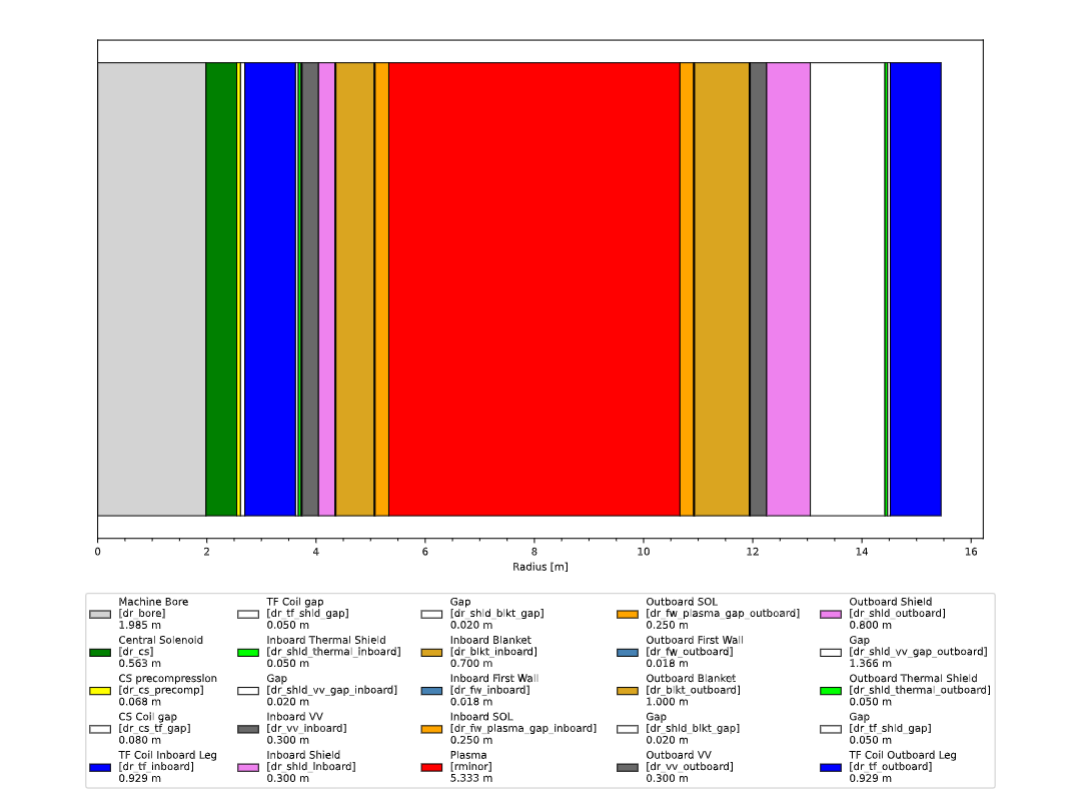
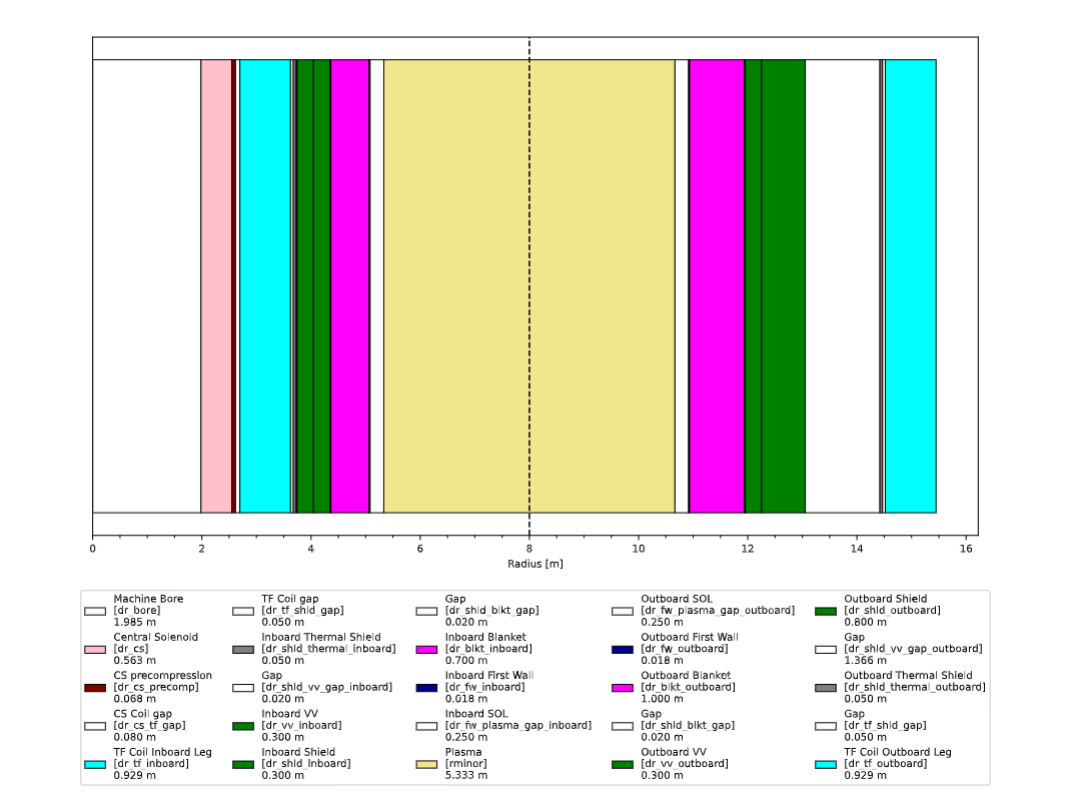
:memo: Update plotting functions and documentation for new vertical build representation

diff --git a/process/io/plot_proc.py b/process/io/plot_proc.py
@@ -4625,7 +4625,7 @@ def plot_confinement_time_comparison(
     axis.set_facecolor("#f0f0f0")
 
 
-def plot_radial_build(axis: plt.Axes, mfile_data: mf.MFile) -> None:
+def plot_radial_build(axis: plt.Axes, mfile_data: mf.MFile, colour_scheme) -> None:
     """
     Plots the radial build of a fusion device on the given matplotlib axis.
 
@@ -4735,58 +4735,52 @@ def plot_radial_build(axis: plt.Axes, mfile_data: mf.MFile) -> None:
         radial_labels[5] = "TF Coil gap"
 
     radial_color = [
-        "lightgrey",
-        "green",
-        "yellow",
         "white",
-        "blue",
+        SOLENOID_COLOUR[colour_scheme - 1],
+        CSCOMPRESSION_COLOUR[colour_scheme - 1],
         "white",
-        "lime",
+        TFC_COLOUR[colour_scheme - 1],
         "white",
-        "dimgrey",
-        "violet",
+        THERMAL_SHIELD_COLOUR[colour_scheme - 1],
         "white",
-        "goldenrod",
-        "steelblue",
-        "orange",
-        "red",
-        "orange",
-        "steelblue",
-        "goldenrod",
+        VESSEL_COLOUR[colour_scheme - 1],
+        SHIELD_COLOUR[colour_scheme - 1],
         "white",
-        "dimgrey",
-        "violet",
+        BLANKET_COLOUR[colour_scheme - 1],
+        FIRSTWALL_COLOUR[colour_scheme - 1],
         "white",
-        "lime",
+        PLASMA_COLOUR[colour_scheme - 1],
         "white",
-        "blue",
+        FIRSTWALL_COLOUR[colour_scheme - 1],
+        BLANKET_COLOUR[colour_scheme - 1],
+        "white",
+        VESSEL_COLOUR[colour_scheme - 1],
+        SHIELD_COLOUR[colour_scheme - 1],
+        "white",
+        THERMAL_SHIELD_COLOUR[colour_scheme - 1],
+        "white",
+        TFC_COLOUR[colour_scheme - 1],
     ]
     if int(mfile_data.data["i_tf_inside_cs"].get_scan(-1)) == 1:
-        radial_color[1] = "blue"
+        radial_color[1] = TFC_COLOUR[colour_scheme - 1]
         radial_color[2] = "white"
-        radial_color[3] = "green"
-        radial_color[4] = "yellow"
+        radial_color[3] = SOLENOID_COLOUR[colour_scheme - 1]
+        radial_color[4] = CSCOMPRESSION_COLOUR[colour_scheme - 1]
         radial_color[5] = "white"
 
-    # Remove build parts equal to zero
-    mask = ~(radial_build[:, 0] == 0.0)
-    filtered_radial_build = radial_build[mask]
-    filtered_labels = [lbl for i, lbl in enumerate(radial_labels) if mask[i]]
-    filtered_colors = [col for i, col in enumerate(radial_color) if mask[i]]
-
-    lower = np.zeros(filtered_radial_build.shape[1])
-    for kk in range(filtered_radial_build.shape[0]):
+    lower = np.zeros(radial_build.shape[1])
+    for kk in range(radial_build.shape[0]):
         axis.barh(
             0,
-            filtered_radial_build[kk, :],
+            radial_build[kk, :],
             left=lower,
             height=0.8,
-            label=f"{filtered_labels[kk]}\n[{radial_variables[kk]}]\n{filtered_radial_build[kk][0]:.3f} m",
-            color=filtered_colors[kk],
+            label=f"{radial_labels[kk]}\n[{radial_variables[kk]}]\n{radial_build[kk][0]:.3f} m",
+            color=radial_color[kk],
             edgecolor="black",
             linewidth=0.05,
         )
-        lower += filtered_radial_build[kk, :]
+        lower += radial_build[kk, :]
 
     axis.set_yticks([])
 
@@ -4794,6 +4788,14 @@ def plot_radial_build(axis: plt.Axes, mfile_data: mf.MFile) -> None:
         bbox_to_anchor=(0.5, -0.1),
         loc="upper center",
         ncol=5,
+    )
+    # Plot a vertical dashed line at rmajor
+    axis.axvline(
+        mfile_data.data["rmajor"].get_scan(-1),
+        color="black",
+        linestyle="--",
+        linewidth=1.2,
+        label="Major Radius $R_0$",
     )
     axis.minorticks_on()
     axis.set_xlabel("Radius [m]")
@@ -4803,22 +4805,20 @@ def plot_vertical_build(axis: plt.Axes, mfile_data: mf.MFile, colour_scheme) -> 
     """
     Plots the vertical build of a fusion device on the given matplotlib axis.
 
-    This function visualizes the different layers/components of the machine's radial build
-    (such as central solenoid, toroidal field coils, vacuum vessel, shields, blankets, etc.)
-    as a horizontal stacked bar chart. The thickness of each layer is extracted from the
+    This function visualizes the different layers/components of the machine's vertical build
+    (such as plasma, first wall, divertor, shield, vacuum vessel, thermal shield, TF coil, etc.)
+    as a vertical stacked bar chart. The thickness of each layer is extracted from the
     provided `mfile_data`, and each segment is color-coded and labeled accordingly.
-
-    If the toroidal field coil is inside the central solenoid (as indicated by the
-    "i_tf_inside_cs" flag in `mfile_data`), the order and labels of the components are
-    adjusted accordingly.
 
     Parameters
     ----------
     axis : matplotlib.axes.Axes
-        The matplotlib axis on which to plot the radial build.
+        The matplotlib axis on which to plot the vertical build.
     mfile_data : mf.MFile
         An object containing the machine build data, with required fields for each
-        radial component and the "i_tf_inside_cs" flag.
+        vertical component.
+    colour_scheme : int
+        Colour scheme index to use for component colors.
 
     Returns
     -------
@@ -4850,23 +4850,19 @@ def plot_vertical_build(axis: plt.Axes, mfile_data: mf.MFile, colour_scheme) -> 
 
     lower_vertical_build = np.array(lower_vertical_build)
 
-    # for kk in range(vertical_build.shape[0]):
-    #     vertical_build[kk, 14] = 2.0 * vertical_build[kk, 14]
-
     lower_vertical_build = np.transpose(lower_vertical_build)
-    # ====================
 
     lower_vertical_labels = [
-        "z_plasma_xpoint_upper",
-        "dz_fw_plasma_gap",
-        "dz_divertor",
-        "dz_shld_upper",
-        "dz_vv_upper",
-        "dz_shld_vv_gap",
-        "dz_shld_thermal",
-        "dr_tf_shld_gap",
-        "dr_tf_inboard",
-        "dz_tf_cryostat",
+        "Plasma Height",
+        "First Wall - Plasma Gap",
+        "Divertor",
+        "Shield",
+        "Vacuum Vessel",
+        "Shield - VV Gap",
+        "Thermal shield",
+        "TF Coil - Shield Gap",
+        "TF Coil",
+        "TF Coil - Cryostat gap",
     ]
 
     lower_vertical_color = [
@@ -4888,19 +4884,19 @@ def plot_vertical_build(axis: plt.Axes, mfile_data: mf.MFile, colour_scheme) -> 
     filtered_labels = [lbl for i, lbl in enumerate(lower_vertical_labels) if mask[i]]
     filtered_colors = [col for i, col in enumerate(lower_vertical_color) if mask[i]]
 
-    left = np.zeros(filtered_vertical_build.shape[1])
+    bottom = np.zeros(filtered_vertical_build.shape[1])
     for kk in range(filtered_vertical_build.shape[0]):
         axis.bar(
             np.arange(filtered_vertical_build.shape[1]),
-            filtered_vertical_build[kk, :],
-            bottom=left,
+            -filtered_vertical_build[kk, :],
+            bottom=bottom,
             width=0.8,
             label=f"{filtered_labels[kk]}\n[{lower_vertical_variables[kk]}]\n{filtered_vertical_build[kk][0]:.3f} m",
             color=filtered_colors[kk],
             edgecolor="black",
             linewidth=0.05,
         )
-        left += filtered_vertical_build[kk, :]
+        bottom -= filtered_vertical_build[kk, :]
 
     axis.set_xticks([])
     axis.legend(
@@ -5725,7 +5721,7 @@ def main_plot(
 
     plot_16 = fig5.add_subplot(211)
     plot_16.set_position([0.1, 0.33, 0.8, 0.6])  # x0, y0, width, height (2/3 vertical)
-    plot_radial_build(plot_16, m_file_data)
+    plot_radial_build(plot_16, m_file_data, colour_scheme)
 
     plot_17 = fig6.add_subplot(121)
     plot_vertical_build(plot_17, m_file_data, colour_scheme)

diff --git a/documentation/proc-pages/usage/plotting.md b/documentation/proc-pages/usage/plotting.md
@@ -46,38 +46,43 @@ process -i path/to/IN.DAT --plot --mfile path/to/MFILE.DAT
 </figure>
 
 <figure markdown>
-![plot_proc_6](../images/plot_proc_5.PNG){ width="100%"}
-<figcaption>Figure 6: plot_proc TF coil and turn cross-section page </figcaption>
+![plot_proc_6](../images/plot_proc_6.png){ width="100%"}
+<figcaption>Figure 6: plot_proc vertical build page </figcaption>
 </figure>
 
 <figure markdown>
-![plot_proc_7](../images/plot_proc_6.PNG){ width="100%"}
-<figcaption>Figure 7: plot_proc bootstrap current model and L-H threshold comparison page </figcaption>
+![plot_proc_7](../images/plot_proc_7.PNG){ width="100%"}
+<figcaption>Figure 7: plot_proc TF coil and turn cross-section page </figcaption>
 </figure>
 
 <figure markdown>
-![plot_proc_8](../images/plot_proc_7.PNG){ width="100%"}
-<figcaption>Figure 8: plot_proc TF coil structure  </figcaption>
+![plot_proc_8](../images/plot_proc_8.PNG){ width="100%"}
+<figcaption>Figure 8: plot_proc bootstrap current model and L-H threshold comparison page </figcaption>
 </figure>
 
 <figure markdown>
-![plot_proc_9](../images/plot_proc_8.PNG){ width="100%"}
-<figcaption>Figure 9: plot_proc density limit and confinement time comparison page  </figcaption>
+![plot_proc_9](../images/plot_proc_9.PNG){ width="100%"}
+<figcaption>Figure 9: plot_proc TF coil structure  </figcaption>
 </figure>
 
 <figure markdown>
-![plot_proc_10](../images/plot_proc_9.PNG){ width="100%"}
-<figcaption>Figure 10: plot_proc current profiles comparison page  </figcaption>
+![plot_proc_10](../images/plot_proc_10.PNG){ width="100%"}
+<figcaption>Figure 10: plot_proc density limit and confinement time comparison page  </figcaption>
 </figure>
 
 <figure markdown>
-![plot_proc_11](../images/plot_proc_10.PNG){ width="100%"}
-<figcaption>Figure 11: plot_proc central solenoid and turn cross-section page  </figcaption>
+![plot_proc_11](../images/plot_proc_11.PNG){ width="100%"}
+<figcaption>Figure 11: plot_proc current profiles comparison page  </figcaption>
 </figure>
 
 <figure markdown>
-![plot_proc_12](../images/plot_proc_11.PNG){ width="100%"}
-<figcaption>Figure 12: plot_proc first wall comparison page  </figcaption>
+![plot_proc_12](../images/plot_proc_12.PNG){ width="100%"}
+<figcaption>Figure 12: plot_proc central solenoid and turn cross-section page  </figcaption>
+</figure>
+
+<figure markdown>
+![plot_proc_13](../images/plot_proc_13.PNG){ width="100%"}
+<figcaption>Figure 13: plot_proc first wall comparison page  </figcaption>
 </figure>
 
 ----------------

diff --git a/documentation/proc-pages/io/utilities.md b/documentation/proc-pages/io/utilities.md
@@ -65,7 +65,7 @@ A `.csv` file will be saved to the directory of the input file.
 
 
 
-## PROCESS 12-Page PDF Summary
+## PROCESS 13-Page PDF Summary
 
 > `process/io/plot_proc.py`
 
